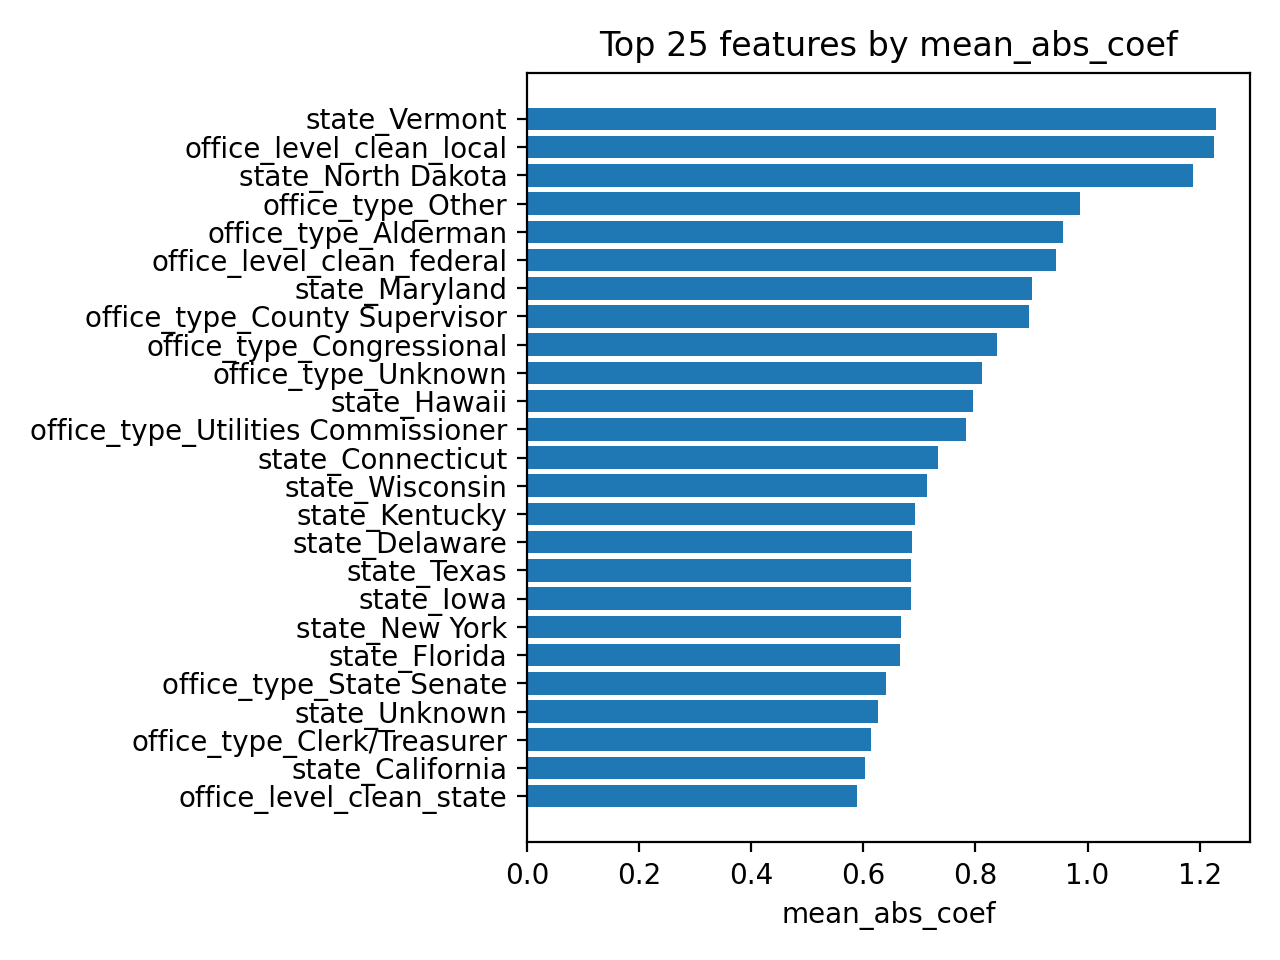
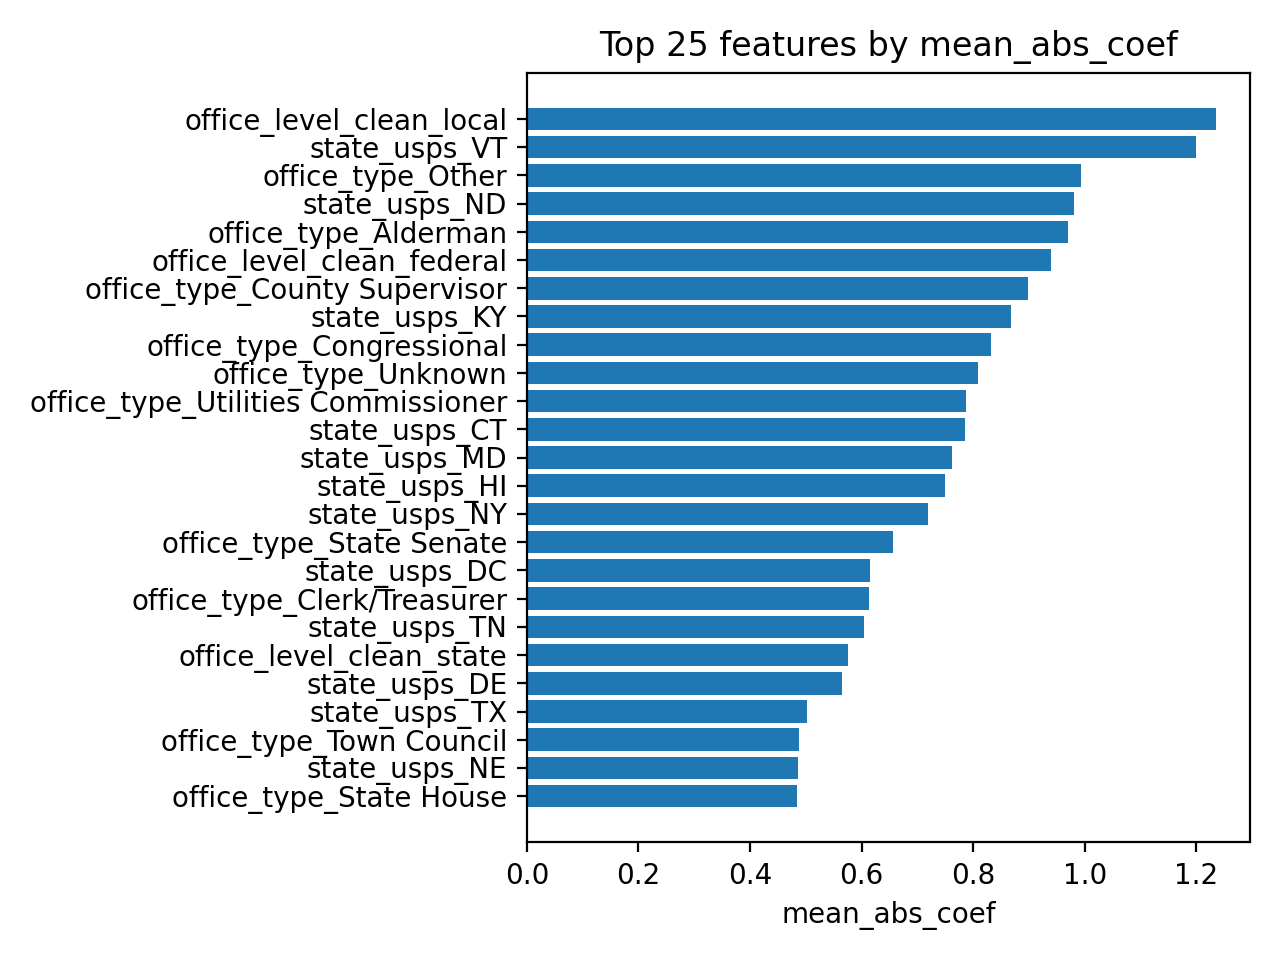
state map

diff --git a/model_1_simple_logistic_CV.py b/model_1_simple_logistic_CV.py
@@ -33,7 +33,8 @@ DROP_COLS = [
     "election_year",
     "election_dow",
     "hubspot_id",
-    "office_level"
+    "office_level",
+    "state"
 ]
 
 # -----------------------
@@ -68,13 +69,13 @@ def norm_office_level(x):
 # 2) mapping to canonical buckets
 OFFICE_LEVEL_MAP = {
     # null-ish / junk
-    "": pd.NA,
-    "null": pd.NA,
-    "n/a": pd.NA,
-    "na": pd.NA,
-    "undefined": pd.NA,
-    "2": pd.NA,
-    "3": pd.NA,
+    "": np.nan,
+    "null": np.nan,
+    "n/a": np.nan,
+    "na": np.nan,
+    "undefined": np.nan,
+    "2": np.nan,
+    "3": np.nan,
 
     # local / municipal / city / town / township / county
     "local": "local",
@@ -116,6 +117,107 @@ def clean_office_level(series: pd.Series) -> pd.Series:
 
     return out.astype("category")
 
+
+# -----------------------
+# State -> USPS + Region
+# -----------------------
+
+US_STATE_CODES = {
+    'AL','AK','AZ','AR','CA','CO','CT','DE','FL','GA','HI','ID','IL','IN','IA','KS','KY','LA','ME','MD','MA','MI',
+    'MN','MS','MO','MT','NE','NV','NH','NJ','NM','NY','NC','ND','OH','OK','OR','PA','RI','SC','SD','TN','TX','UT',
+    'VT','VA','WA','WV','WI','WY','DC'
+}
+
+US_TERRITORY_CODES = {'AS','GU','MP','PR','VI','PW'}
+US_CODES_ALL = US_STATE_CODES | US_TERRITORY_CODES
+
+STATE_NAME_TO_USPS = {
+    "ALABAMA":"AL","ALASKA":"AK","ARIZONA":"AZ","ARKANSAS":"AR","CALIFORNIA":"CA","COLORADO":"CO","CONNECTICUT":"CT",
+    "DELAWARE":"DE","DISTRICT OF COLUMBIA":"DC","FLORIDA":"FL","GEORGIA":"GA","HAWAII":"HI","IDAHO":"ID","ILLINOIS":"IL",
+    "INDIANA":"IN","IOWA":"IA","KANSAS":"KS","KENTUCKY":"KY","LOUISIANA":"LA","MAINE":"ME","MARYLAND":"MD",
+    "MASSACHUSETTS":"MA","MICHIGAN":"MI","MINNESOTA":"MN","MISSISSIPPI":"MS","MISSOURI":"MO","MONTANA":"MT",
+    "NEBRASKA":"NE","NEVADA":"NV","NEW HAMPSHIRE":"NH","NEW JERSEY":"NJ","NEW MEXICO":"NM","NEW YORK":"NY",
+    "NORTH CAROLINA":"NC","NORTH DAKOTA":"ND","OHIO":"OH","OKLAHOMA":"OK","OREGON":"OR","PENNSYLVANIA":"PA",
+    "RHODE ISLAND":"RI","SOUTH CAROLINA":"SC","SOUTH DAKOTA":"SD","TENNESSEE":"TN","TEXAS":"TX","UTAH":"UT",
+    "VERMONT":"VT","VIRGINIA":"VA","WASHINGTON":"WA","WEST VIRGINIA":"WV","WISCONSIN":"WI","WYOMING":"WY",
+    # Territories (if present as names)
+    "AMERICAN SAMOA":"AS","GUAM":"GU","NORTHERN MARIANA ISLANDS":"MP","PUERTO RICO":"PR",
+    "VIRGIN ISLANDS":"VI","U.S. VIRGIN ISLANDS":"VI","PALAU":"PW",
+}
+
+# Common variants/typos -> either USPS or canonical name handled above
+STATE_ALIASES = {
+    "DELEWARE": "DE",
+    "WASHINGTON DC": "DC",
+    "WASHINGTON D.C.": "DC",
+    "DISTRICT OF COLUMBIA": "DC",
+    # add more if you discover them
+}
+
+REGION_MAP = {
+    "NORTHEAST": {"CT","ME","MA","NH","RI","VT","NJ","NY","PA"},
+    "MIDWEST":   {"IL","IN","MI","OH","WI","IA","KS","MN","MO","NE","ND","SD"},
+    "SOUTH":     {"DE","FL","GA","MD","NC","SC","VA","WV","AL","KY","MS","TN","AR","LA","OK","TX","DC"},
+    "WEST":      {"AZ","CO","ID","MT","NV","NM","UT","WY","AK","CA","HI","OR","WA"},
+}
+def norm_state(x) -> str:
+    if pd.isna(x):
+        return ""
+    s = str(x).strip()
+    if s == "":
+        return ""
+    s = re.sub(r"\s+", " ", s)          # collapse whitespace
+    s = s.replace(".", "")              # remove periods (D.C. -> DC)
+    return s.upper()
+
+def clean_state_to_usps(series: pd.Series, keep_only_us_territories: bool = True) -> pd.Series:
+    """
+    Returns USPS code for US states/DC/territories.
+    If keep_only_us_territories=True, anything else becomes pd.NA.
+    """
+    s = series.map(norm_state)
+
+    def _map_one(val: str):
+        if val == "" or val in {"NULL", "N/A", "NA", "UNDEFINED"}:
+            return np.nan
+
+        # direct alias (typos/variants)
+        if val in STATE_ALIASES:
+            code = STATE_ALIASES[val]
+            return code if code in US_CODES_ALL else np.nan
+
+        # if it's already a code, only accept if it's a real US code
+        if len(val) == 2 and val.isalpha():
+            return val if val in US_CODES_ALL else (np.nan if keep_only_us_territories else val)
+
+        # full name to code
+        if val in STATE_NAME_TO_USPS:
+            return STATE_NAME_TO_USPS[val]
+
+        # otherwise: non-US or unmapped
+        return np.nan if keep_only_us_territories else val
+
+    out = s.map(_map_one).astype("string")
+    return out.astype("category")
+
+def state_usps_to_region(state_usps: pd.Series) -> pd.Series:
+    """
+    Maps USPS -> {NORTHEAST, MIDWEST, SOUTH, WEST, TERRITORY, UNKNOWN}.
+    """
+    def _region(code):
+        if pd.isna(code) or str(code).strip() == "":
+            return "Unknown"
+        c = str(code)
+        if c in US_TERRITORY_CODES:
+            return "TERRITORY"
+        for region, codes in REGION_MAP.items():
+            if c in codes:
+                return region
+        return "OTHER_US"
+
+    return state_usps.map(_region).astype("category")
+
+
 def prep(df: pd.DataFrame):
     # target
     df = df.copy()
@@ -147,7 +249,13 @@ def prep(df: pd.DataFrame):
 
     df["office_level_clean"] = clean_office_level(df["office_level"])
 
+      #state + region ---
+    df["state_usps"] = clean_state_to_usps(df["state"], keep_only_us_territories=True).astype("object")
+    df["region"] = state_usps_to_region(df["state_usps"]).astype("object")
 
+    df["state_usps"] = df["state_usps"].astype(object).replace({pd.NA: "Unknown"})
+    df["region"] = df["region"].astype(object).replace({pd.NA: "Unknown"})
+    
     y = df["Win"].astype(int)
     X = df.drop(columns=DROP_COLS, errors="ignore")
 
@@ -366,3 +474,6 @@ print(imp.sort_values("mean_coef", ascending=True).head(25)[["mean_coef","std_co
 
 from viz_outreach_model_outputs import make_all_plots
 make_all_plots(fold_aucs, y_all, proba_all, THRESHOLD, results, imp, outdir="viz_outputs")
+
+
+
